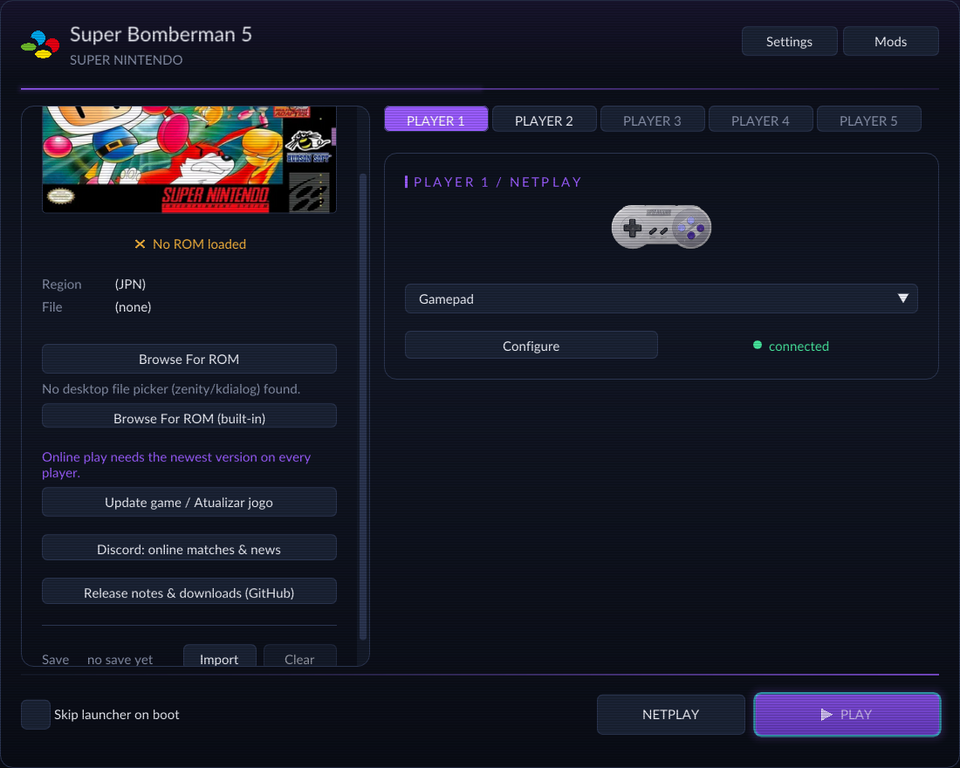
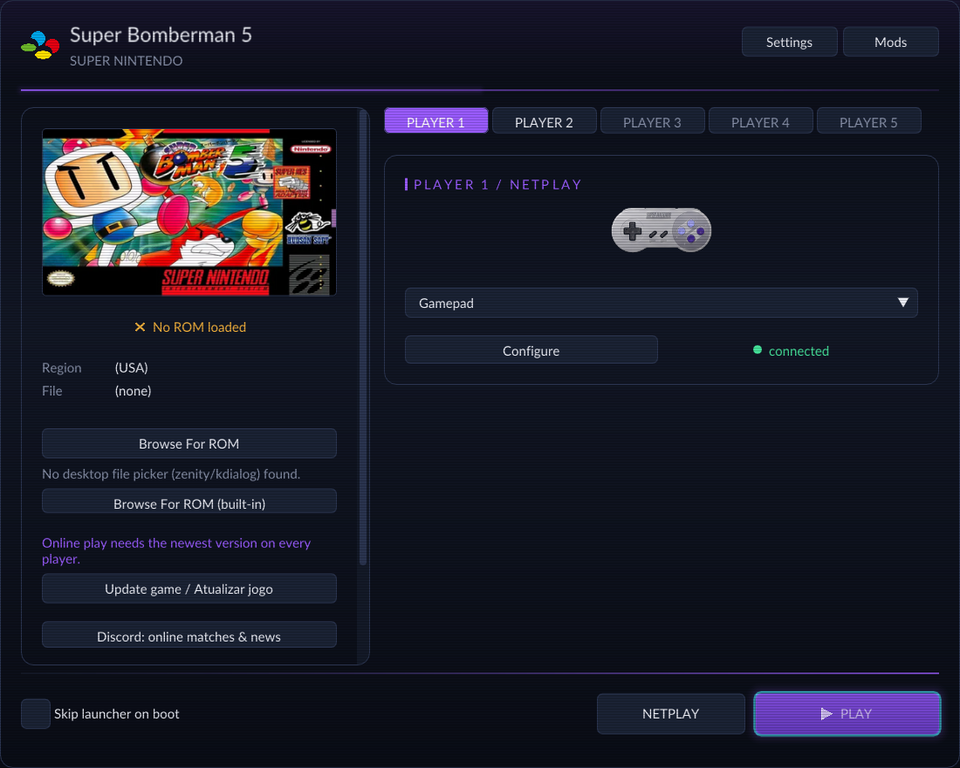
Show the supported dump as Super Bomberman 5 (USA) in the launcher
The launcher's region label comes from rom_identity.txt. The supported
dump is the USA release; its header keeps the Japanese region byte, so
the docs say so. Hashes and game_id are unchanged.

Claude-Session: https://claude.ai/code/session_011UKX4f71KYD5mNPjqz6YPt

diff --git a/tools/release-notes.py b/tools/release-notes.py
@@ -17,7 +17,7 @@ Download the Windows x64 ZIP and extract the entire archive into a writable fold
 
 The release contains **a setup host and source, not the game**: no ROM, ROM-derived C, ROM-derived game executable, extracted sprites/music, saves or gameplay captures. Runtime licensed launcher assets and dependency notices are preserved. The playable build is generated locally under build/.
 
-Supported image: header region JPN, CRC32 c25ab56a, SHA-256 5251e6491872dc51879b630a34d76a92e29ea0c39026c4f8773c1fe006d047c4. The developer filename contains USA, but hashes determine compatibility. No other revision is qualified.
+Supported image: Super Bomberman 5 (USA), CRC32 c25ab56a, SHA-256 5251e6491872dc51879b630a34d76a92e29ea0c39026c4f8773c1fe006d047c4 (its header keeps the Japanese region byte). Hashes determine compatibility. No other revision is qualified.
 
 Reset/NMI remain interpreted after AOT promotion produced continuation/dispatch errors. This is a baseline for improving native coverage, not a completed port. See README.md, docs/STATUS.md, CONTRIBUTING.md and THIRD_PARTY_NOTICES.md. Verify the ZIP using SHA256SUMS.
 

diff --git a/README.md b/README.md
@@ -31,7 +31,7 @@ An unofficial, noncommercial **Super Bomberman 5** PC port built with [SNESRecom
 
 ### Supported ROM
 
-Compatibility is decided by hash, not filename. The developer's file is named `Super Bomberman 5 (USA).sfc`, but its header reports **JPN**. Other revisions and translations are not qualified. [rom_identity.txt](rom_identity.txt) is authoritative; no ROM links are provided.
+Compatibility is decided by hash, not filename. The supported version is **Super Bomberman 5 (USA)** (`Super Bomberman 5 (USA).sfc`); its internal header still carries the Japanese region byte, so tools may label it JPN. Other revisions and translations are not qualified. [rom_identity.txt](rom_identity.txt) is authoritative; no ROM links are provided.
 
 | Identity | Value |
 |---|---|
@@ -130,7 +130,7 @@ Thanks to Matthew Stanley and the RetroPorting ToolKit contributors for SNESReco
 
 ### ROM compatível
 
-A compatibilidade é definida pelo hash da tabela em [Supported ROM](#supported-rom), não pelo nome do arquivo. O arquivo do desenvolvedor tem “USA” no nome, mas o cabeçalho indica **JPN**. Outras revisões e traduções não foram qualificadas. Nenhuma ROM acompanha o projeto.
+A compatibilidade é definida pelo hash da tabela em [Supported ROM](#supported-rom), não pelo nome do arquivo. A versão suportada é **Super Bomberman 5 (USA)** (`Super Bomberman 5 (USA).sfc`); o cabeçalho interno ainda traz o byte de região japonês, por isso algumas ferramentas a chamam de JPN. Outras revisões e traduções não foram qualificadas. Nenhuma ROM acompanha o projeto.
 
 ### Mods
 
